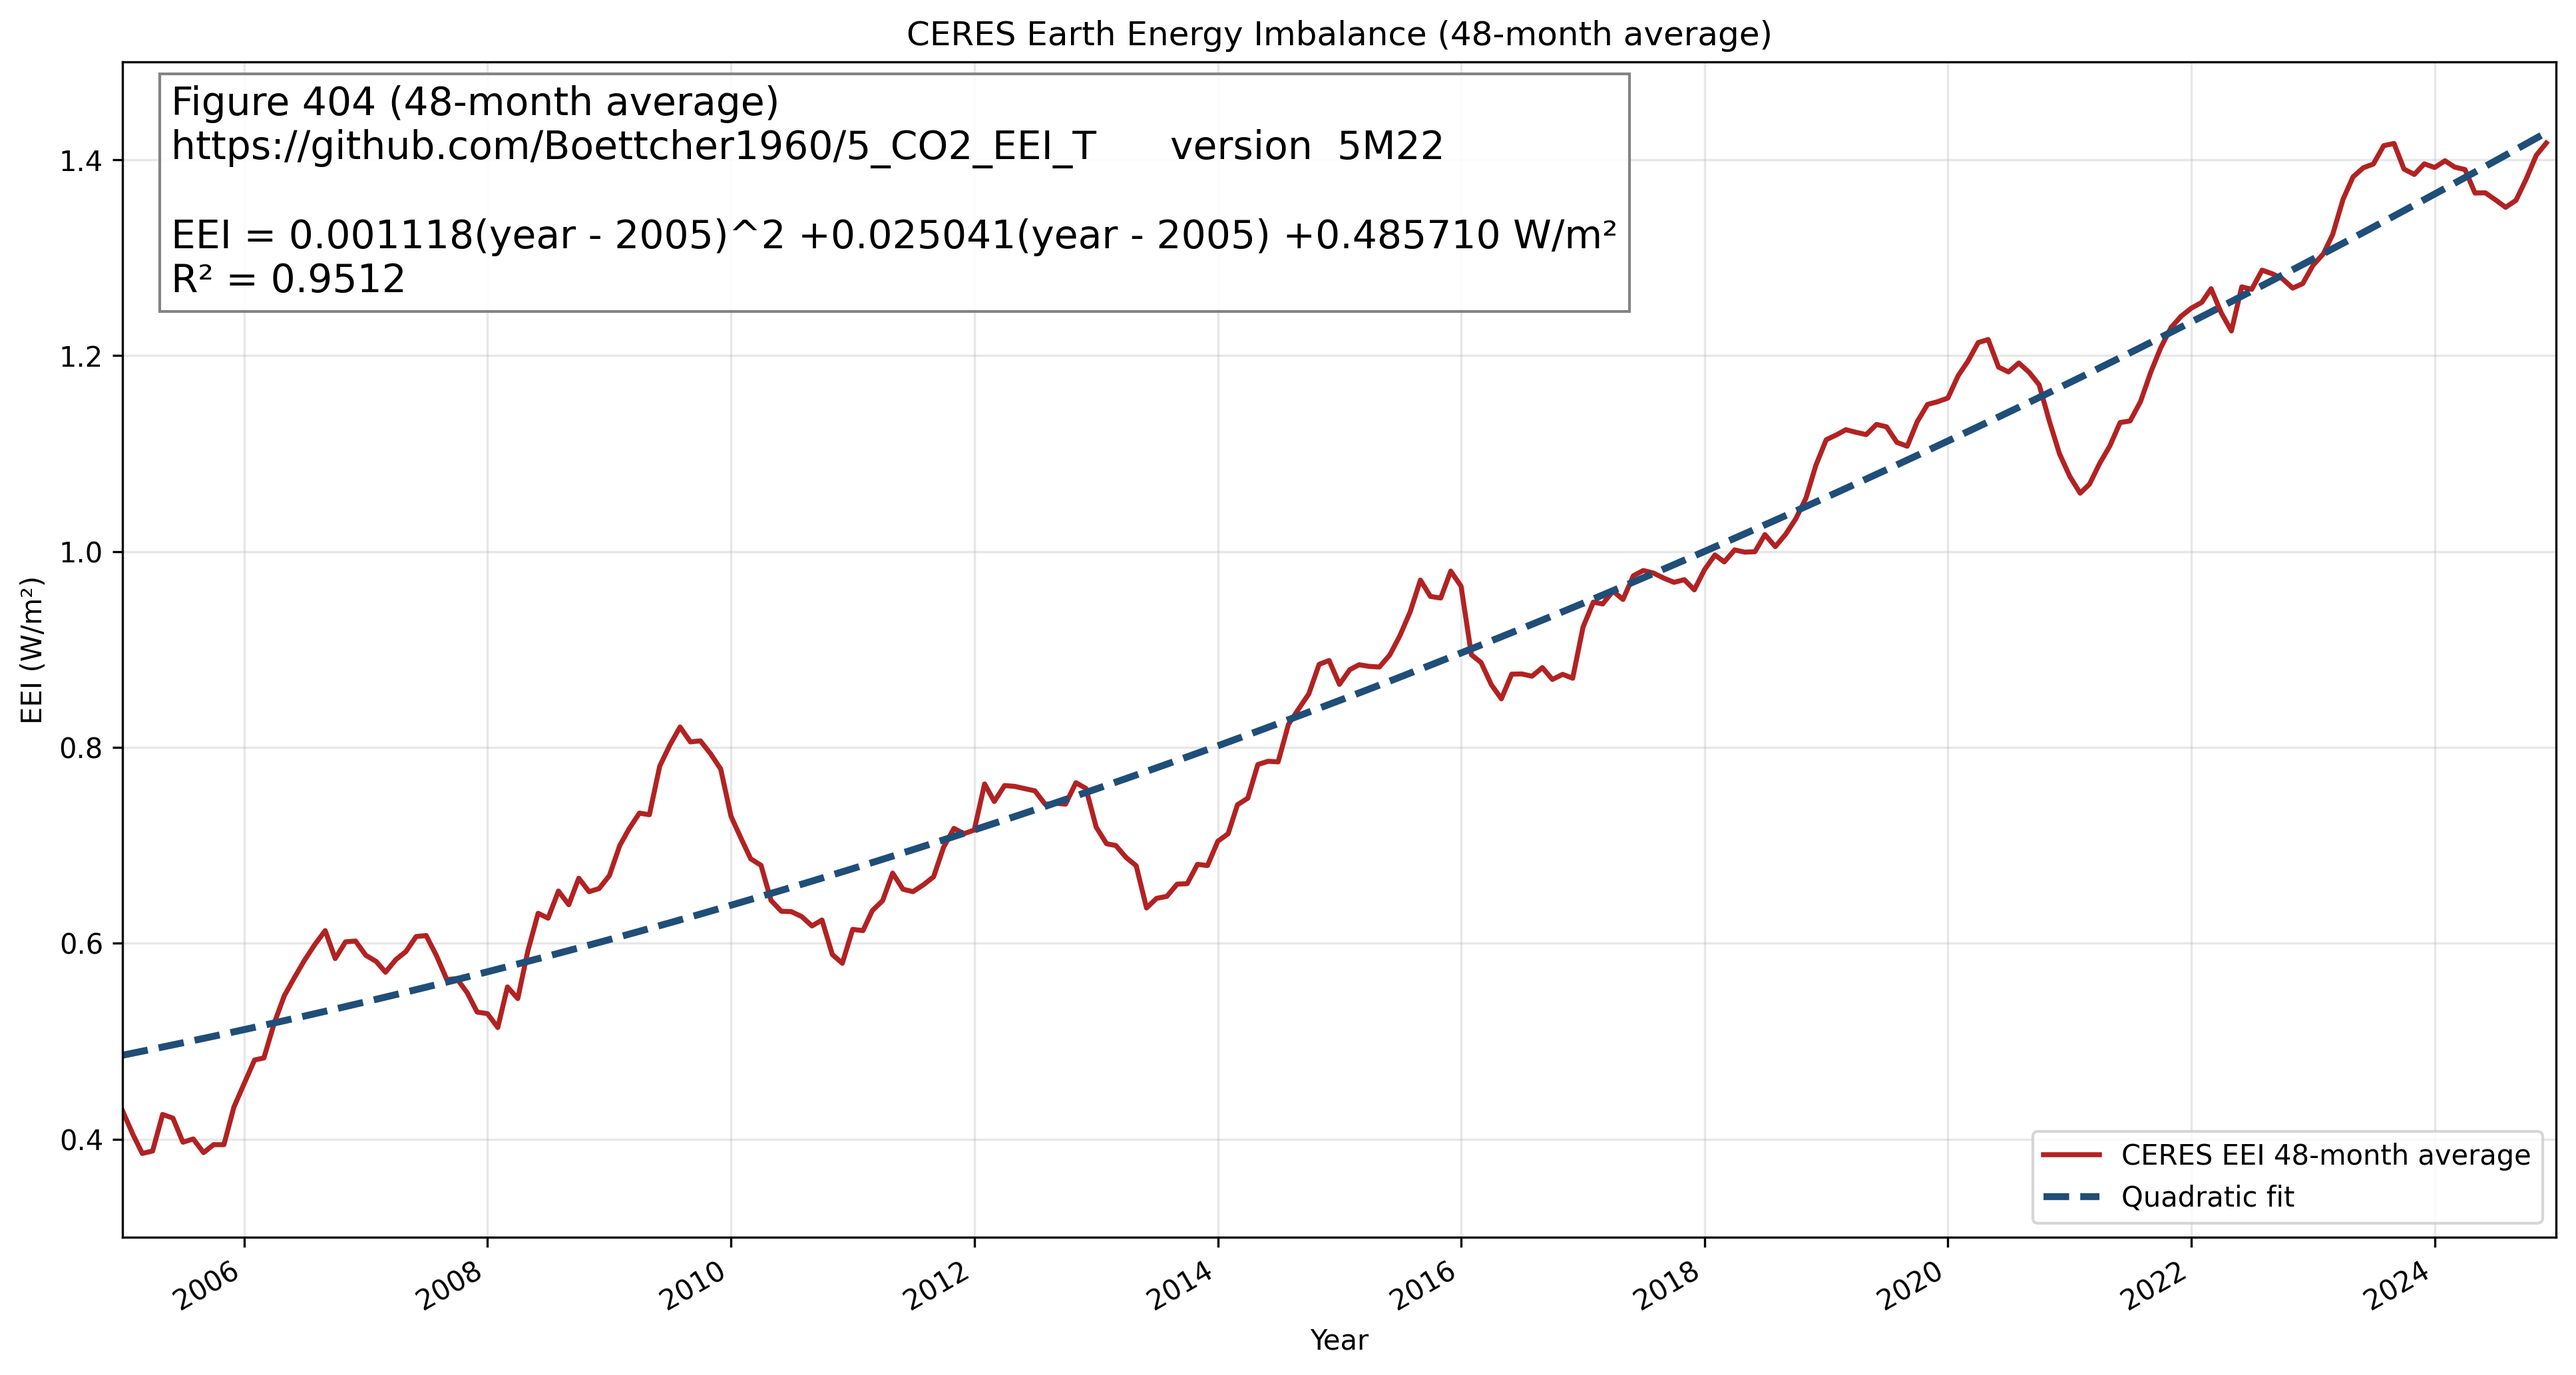
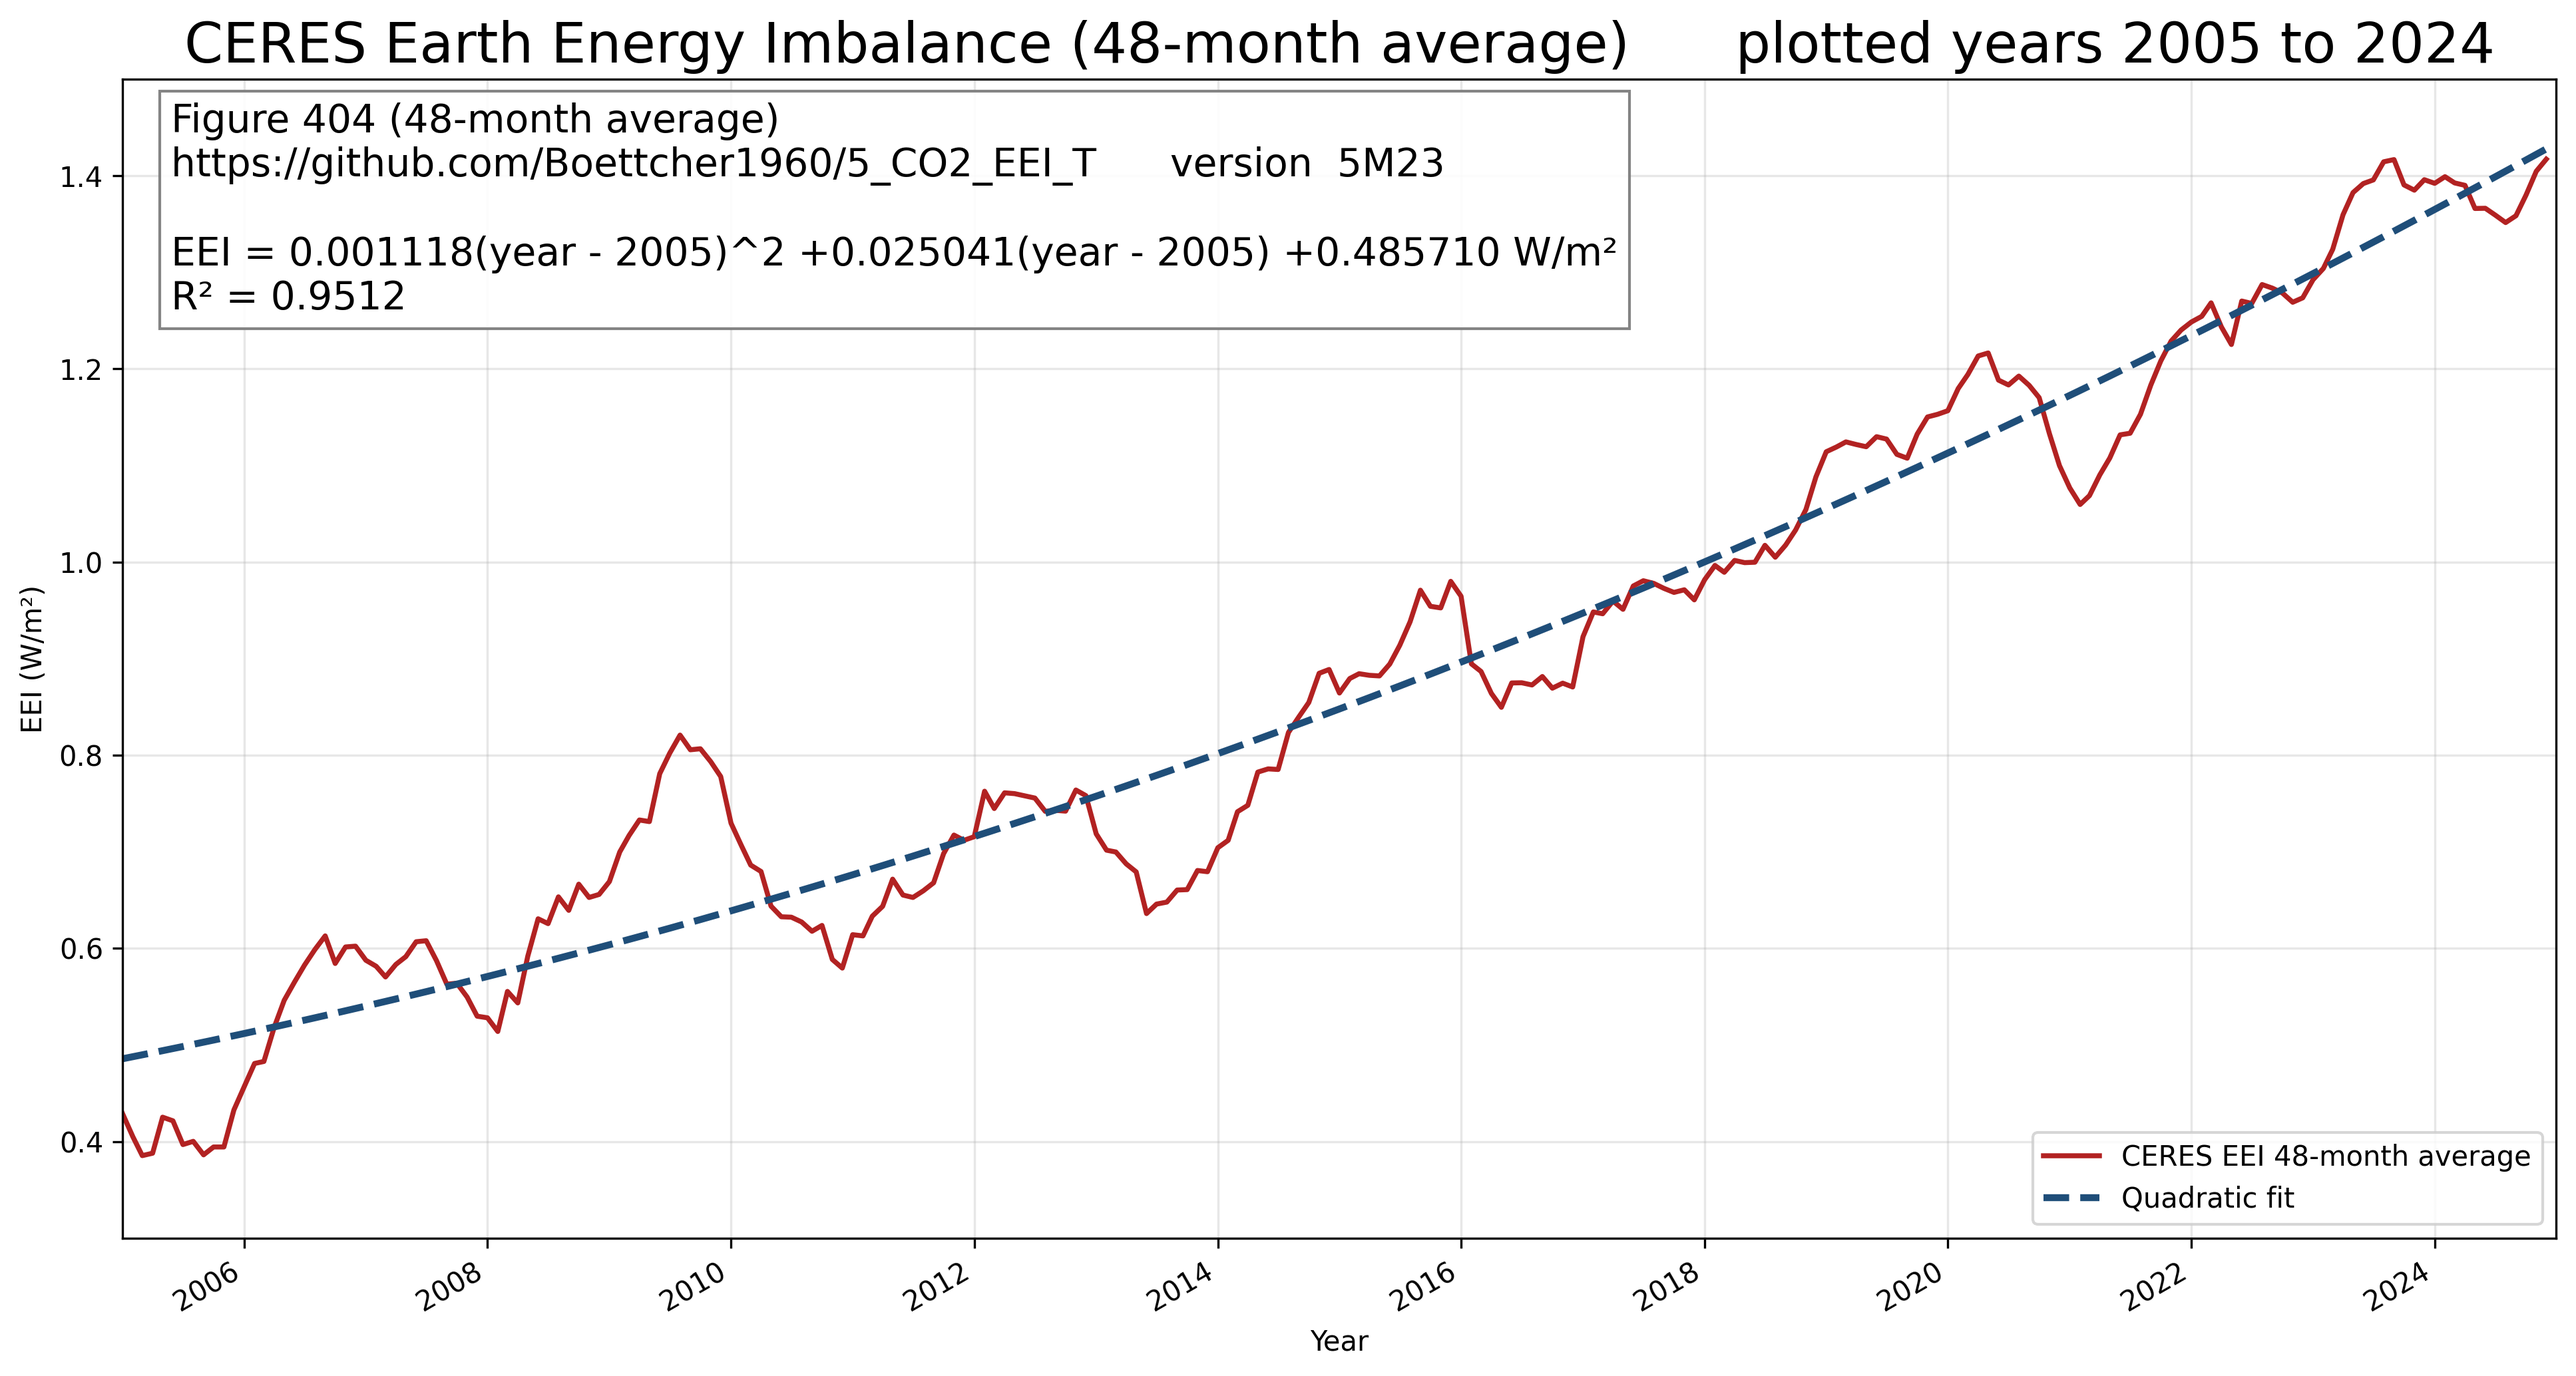
5M23

diff --git a/ceres.py b/ceres.py
@@ -652,7 +652,11 @@ def fig_404_eei_quadratic():
         fontsize=14,
         bbox={"facecolor": "white", "alpha": 0.9, "edgecolor": "#777777"},
     )
-    ax.set_title(f"CERES Earth Energy Imbalance ({window_months}-month average)")
+    ax.set_title(
+        f"CERES Earth Energy Imbalance ({window_months}-month average) "
+        f"     plotted years {x_anf} to {x_end}",
+        fontsize=20,
+    )
     ax.set_xlabel("Year")
     ax.set_ylabel("EEI (W/m²)")
     ax.set_ylim(y_61min, y_61max)

diff --git a/main.py b/main.py
@@ -1,5 +1,5 @@
 # main.py
-v = "5M22" # make a separate new figure404 for play_61_EEI = 12 this is file work/61c_out_EEI.csv column EEI 
+v = "5M23" # make a separate new figure404 for play_61_EEI = 12 this is file work/61c_out_EEI.csv column EEI 
 #            print the quadratic equation for EEI inside figure404
 # https://github.com/Boettcher1960/5_CO2_EEI_T
 # ocean stratification https://bsky.app/profile/thomas-boettcher.bsky.social/post/3mj7zx7fzsc26

diff --git a/models.py b/models.py
@@ -1064,6 +1064,11 @@ y_61max = 2  #   EEI in W/m2 y axis left mode
 modify figure404 to start y axis with y_61max
 
 
+modify figure404 to print x_anf = 2005 
+and 
+x_end = 2024 in the headline
+
+
 """
 
 
